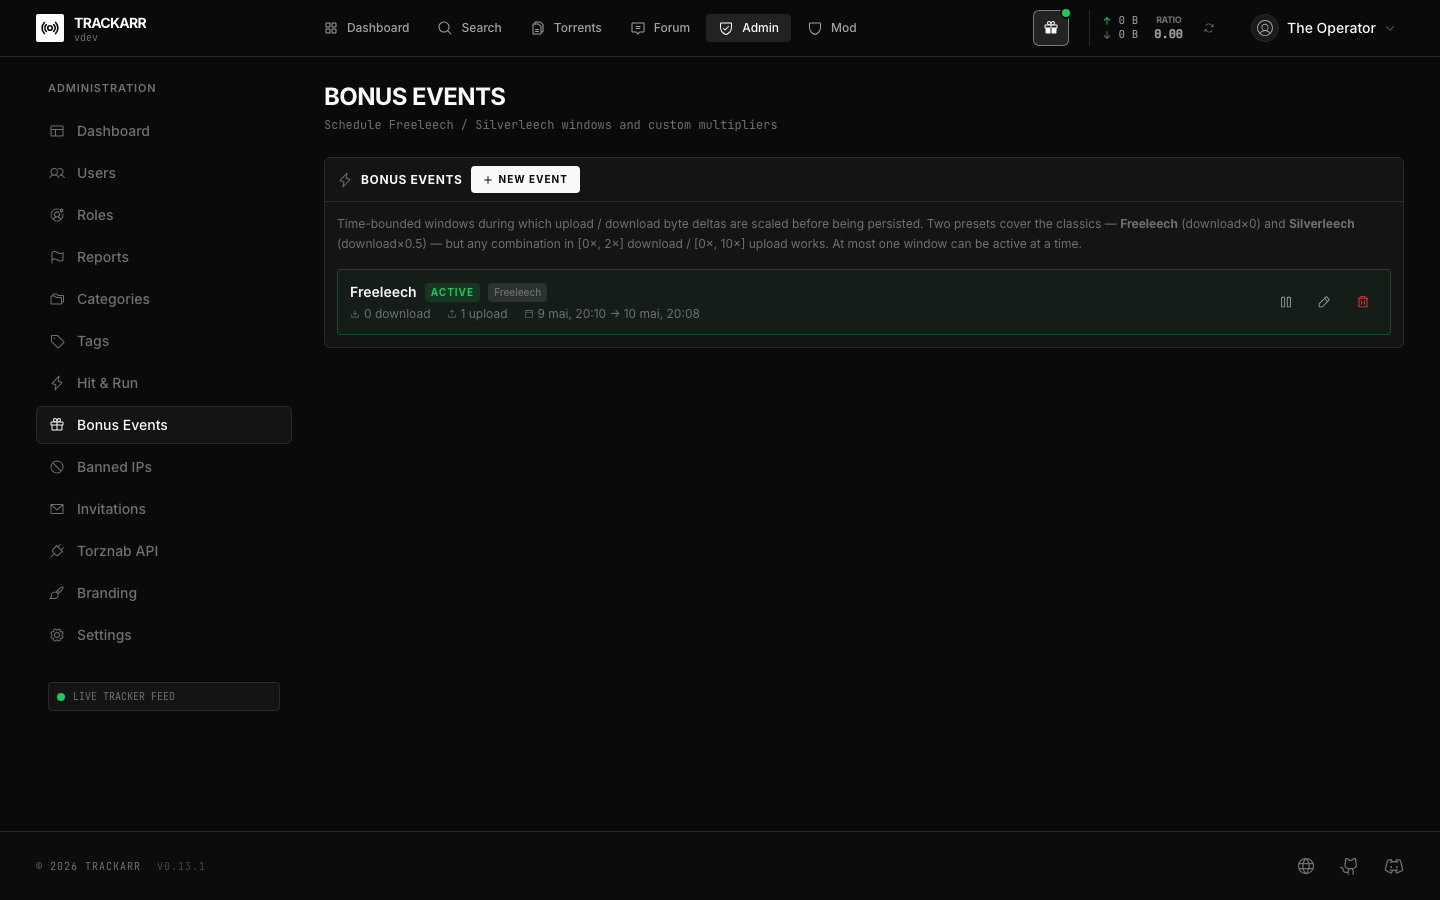
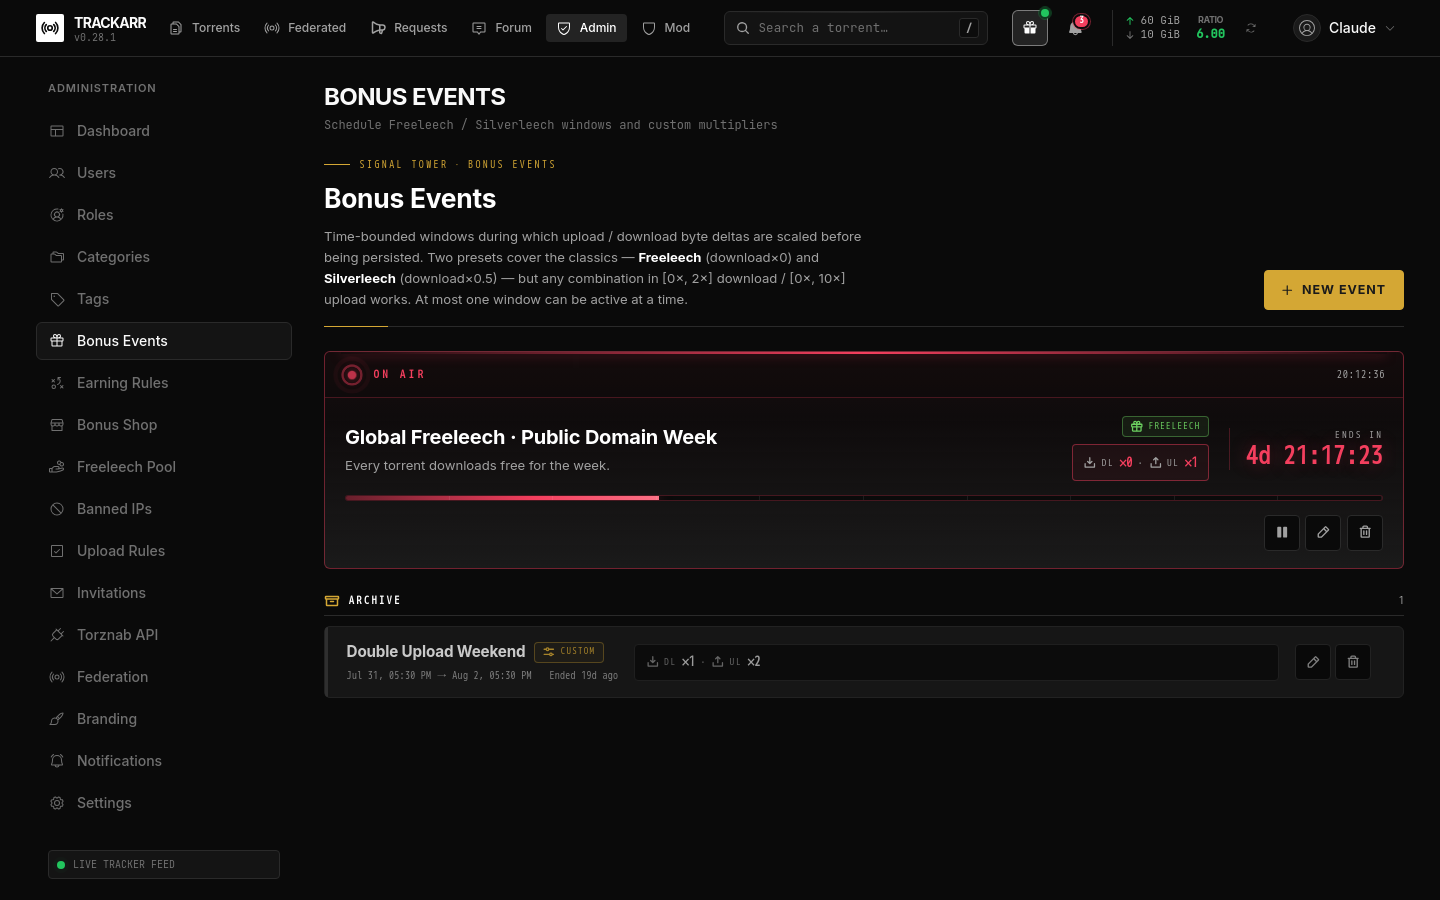
docs: refresh every screenshot against a freely-licensed demo catalogue
The screenshots predated a redesign, three of them were 3358x2088 window
captures with placeholder filenames ("image copy 2.png"), and the newer
features had no visual at all.

Catalogue behind the shots: 77 releases that are all public domain,
Creative Commons or FOSS — the Blender Studio open movies, public domain
cinema (Nosferatu, Metropolis, Night of the Living Dead), Pioneer One,
early Japanese animation from 1917 onward, open-source games, Linux
images, Standard Ebooks, and the Creative Commons albums the artists
seeded themselves. Provider ids (TMDb, IMDb, Open Library) are the real
ones, cross-checked against Wikidata claims and themoviedb.org, so the
metadata panels render actual posters and synopses.

README: all eight shots are now 1440x900 and carry a line of context.
`image.png` / `image copy 2.png` / `image copy 3.png` are replaced by
named files under `images/screens/`, and the gallery gains the federation
console.

Documentation: six screenshots refreshed, six added for the guides that
had none — federation, seed-bonus (shop), upload-requests, hit-and-run,
anti-cheat and upload-rules. Two existing captions described details the
new captures no longer show and were rewritten to match.

diff --git a/README.md b/README.md
@@ -14,7 +14,7 @@ Three containers — Nuxt 4 web · Nitro API · Go tracker — backed by Postgre
 
 [Features](#-features) • [Architecture](#-architecture) • [Quick Start](#-quick-start) • [Static deployment](#-static-deployment-no-ssr) • [Documentation](https://dim145.github.io/opentracker/) • [Live Demo](https://tracker.florianargaud.com/)
 
-![Trackarr Homepage](apps/web/public/images/image%20copy%203.png)
+![Trackarr — tracker state and latest releases](apps/web/public/images/screens/home.png)
 
 </div>
 
@@ -220,12 +220,33 @@ Security deep-dive: [doc/guide/security.md](doc/guide/security.md), [doc/guide/z
 
 ## 📸 Screenshots
 
-![Torrent List](apps/web/public/images/image.png)
-![Torrent Details](apps/web/public/images/image%20copy%202.png)
+Catalogue — full-text search, category facets, per-release tags and live swarm counts.
+
+![Torrent list](apps/web/public/images/screens/torrents.png)
+
+Release page — metadata pulled from TMDb / IMDb / IGDB / Open Library against the id stored on the torrent, swarm activity, and the uploader's notes.
+
+![Torrent details](apps/web/public/images/screens/torrent-detail.png)
+
+Forum — sections, threads and cross-instance federated threads.
+
 ![Forum](apps/web/public/images/screens/forum.png)
+
+Profile — ratio, bonus points, and the announce URL carrying your passkey.
+
 ![User profile](apps/web/public/images/screens/me.png)
+
+Admin dashboard — swarm vital signs and 30 days of time series.
+
 ![Admin dashboard](apps/web/public/images/screens/admin-dashboard.png)
+
+Moderation queue — every upload that isn't accepted yet, with its conversation thread.
+
 ![Moderation queue](apps/web/public/images/screens/mod-pending.png)
+
+Federation — link the tracker to instances you trust, and pick exactly what each link shares.
+
+![Federation](apps/web/public/images/screens/federation.png)
 
 ---
 

diff --git a/doc/guide/upload-rules.md b/doc/guide/upload-rules.md
@@ -2,6 +2,8 @@
 
 Trackarr's upload pipeline runs every new `.torrent` through a configurable gate before it reaches the moderation queue. The rules are admin-edited at `/admin/upload-rules` and live in two tables: a singleton (`upload_rules`) for the global toggles, and one row per leaf-category in `upload_rule_category_patterns` for the per-category title regex.
 
+![Admin · Upload rules — the six global gates with their numeric and regex knobs](/screenshots/upload-rules.png)
+
 ::: tip Upload rules vs Moderation
 Upload rules **reject** an upload outright with `400 Bad Request` before the row is created. They're enforced server-side on `POST /api/torrents`. **Moderation** then decides whether a row that *passed* the rules is publishable — see [Moderation](./moderation.md). The two systems are independent.
 :::

diff --git a/doc/guide/moderation.md b/doc/guide/moderation.md
@@ -43,7 +43,7 @@ When a torrent is in a non-final state (`pending` or `changes_requested`) the pa
 
 ### Admin queue (`/mod/pending`)
 
-![Moderation queue showing the segmented status filter and one rejected row](/screenshots/mod-pending.png)
+![Moderation queue — the segmented status filter (all / pending / changes requested / rejected) over three uploads awaiting review](/screenshots/mod-pending.png)
 
 The queue lists every row whose status isn't `accepted`. A segmented filter (All / Pending / Changes / Rejected) splits the buckets, each with its own colour rail. Clicking a row opens its detail page where the panel takes over.
 

diff --git a/doc/guide/bonus-events.md b/doc/guide/bonus-events.md
@@ -11,7 +11,7 @@ Any custom combination in `[0×, 2×]` download / `[0×, 10×]` upload is also a
 
 ## Admin surface (`/admin/bonus-events`)
 
-![Bonus events admin — active Freeleech window with start / end times and the day's deltas](/screenshots/admin-bonus-events.png)
+![Bonus events admin — a Freeleech window on air with its remaining time and multipliers, above the archive of past events](/screenshots/admin-bonus-events.png)
 
 The page lists every event (active, scheduled, ended, disabled) and exposes a **New event** modal. The modal carries:
 

diff --git a/doc/guide/hit-and-run.md b/doc/guide/hit-and-run.md
@@ -2,6 +2,8 @@
 
 A *hit-and-run* is a user who downloads a torrent and stops seeding before the operator-defined seed-time threshold. Trackarr enforces HnR at the per-(user, torrent) level so the consequences land on the responsible account, not the operator's mood.
 
+![Moderation · Hit & Run — flagged rows with seed time against the requirement, and the per-row clear / exempt actions](/screenshots/hnr.png)
+
 ## Concepts
 
 | Term                | Meaning                                                                                            |

diff --git a/doc/guide/federation.md b/doc/guide/federation.md
@@ -9,6 +9,8 @@ data, and decides — per partner, per direction — exactly what it shares.
 Federation is **off by default** and only the **owner** (an admin) can turn
 it on, from `/admin/federation`.
 
+![Admin · Federation — the instance's own identity, the default sharing scopes proposed to new partners, and sync health](/screenshots/federation.png)
+
 ## Trust model
 
 There is no central authority and no PKI. Trust is established **once, by

diff --git a/doc/guide/anti-cheat.md b/doc/guide/anti-cheat.md
@@ -7,6 +7,8 @@ suspicious events to a moderation queue at `/mod/anti-cheat`.
 not an enforcement engine. Moderators review each flag and
 decide whether to issue a warning, monitor, or ban manually.
 
+![Moderation · Anti-cheat — the triage queue with per-detector counters and the evidence carried by each flag](/screenshots/anti-cheat.png)
+
 ## What gets flagged
 
 Three independent detectors run inside the Go tracker on every

diff --git a/doc/guide/seed-bonus.md b/doc/guide/seed-bonus.md
@@ -6,6 +6,8 @@ or revoke points by hand. Distinct from [bonus events](./bonus-events.md)
 (which scale `users.uploaded` deltas globally during a window), the
 bonus economy is per-user, persistent, and operator-tunable end-to-end.
 
+![The bonus shop — upload-credit and invitation items priced in points, with the member's reserve on the right](/screenshots/shop.png)
+
 ## What users see
 
 ### `/me` — Bonus reserve

diff --git a/doc/guide/upload-requests.md b/doc/guide/upload-requests.md
@@ -9,6 +9,8 @@ validates the proposal after the configured timeout.
 The whole feature lives at `/requests`. Browse open bounties,
 post your own, fill someone else's, discuss in the thread.
 
+![The bounty board — open requests with their category, requester and staked reward](/screenshots/requests.png)
+
 ## Lifecycle
 
 ```
